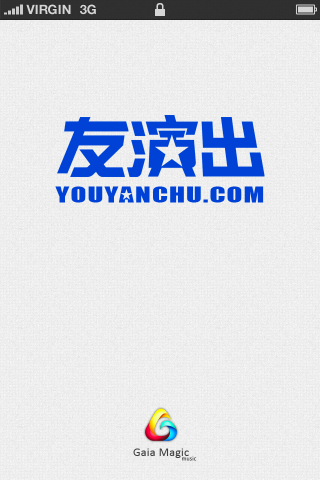
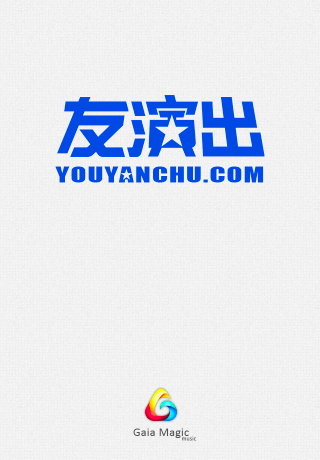
[mod]fix ui bugs in homepage

Changed region(s): [[0.1562, 0.1826, 0.8438, 0.4261], [0.0, 0.0, 1.0, 0.0609], [0.4062, 0.8217, 0.625, 0.9739]]

diff --git a/css/style.3.5.css b/css/style.3.5.css
@@ -28,12 +28,14 @@ h3 {margin-bottom: 5px;}
 .left { position: relative;left: 20px;}
 .middle {position: relative;left: 140px;margin-left: -16px;background-position: -8px -300px!important;}
 .right {position: relative;left: 260px;margin-left: -16px;background-position: -8px -318px!important;}
-.middle1 {position: relative;left: 70px;background-position: 0px -70px!important;}
-.middle1:hover {background-position: 0px -105px!important;}
-.middle2 {position: relative;left: 120px;background-position: 0px -140px!important;}
-.middle2:hover {background-position: 0px -175px!important;}
-.bottom-right {position: relative;left: 180px;margin-left: -16px;background-position: 0px -210px!important;}
-.bottom-right:hover {background-position: 0px -245px!important;}
+.left1 { position: relative;left: 20px;}
+.left1:hover { background-position: 0px -36px!important;}
+.middle1 {position: relative;left: 70px;background-position: 0px -72px!important;}
+.middle1:hover {background-position: 0px -108px!important;}
+.middle2 {position: relative;left: 120px;background-position: 0px -144px!important;}
+.middle2:hover {background-position: 0px -180px!important;}
+.bottom-right {position: relative;left: 180px;margin-left: -16px;background-position: 0px -216px!important;}
+.bottom-right:hover {background-position: 0px -252px!important;}
 .header-bar {width: 100%;height: 32px!important;color:white;line-height:32px;text-align:left!important;}
 .back-button {background: url(../images/tool/home-1.png) no-repeat;background-position: -8px -280px;padding-left: 20px;}
 .page-name {left:100px;}
@@ -41,7 +43,7 @@ h3 {margin-bottom: 5px;}
 
 /* login page style */
 .landing-page {
-  background-image: url(../images/landing-background.png);
+  background-image: url(../images/tool/setting-background.png);
 }
 header {
   margin: auto auto;
@@ -51,7 +53,8 @@ header {
   color: white;
 }
 #app-logo {
-  background: url(../images/LOGO.png) no-repeat;
+  background: url(../images/tool/retina/landing-page-logo-@2.png) no-repeat;
+  background-size: 160px 70px;
   line-height: 90px;
   padding: 26px;
   padding-left: 84px;
@@ -123,7 +126,8 @@ footer {
   color: white;
 }
 #company {
-  background: url(../images/company-logo.png) no-repeat;
+  background: url(../images/tool/retina/company-icon@2.png) no-repeat;
+  background-size: 73px 52px;
   line-height: 90px;
   padding: 26px;
   padding-left: 44px;
@@ -150,6 +154,9 @@ footer {
   background: url(../images/test-playbill-white.jpg) no-repeat;
   */
   background-color: black;
+}
+#playbill span {
+  font-size: 12px;
 }
 #playbill-button-list {
   width: 320px;
@@ -181,7 +188,7 @@ footer {
  * */
 
 .show-wrapper {
-  width: 320px;
+  width: 100%;
   top: 192px;
   bottom: 0;
   overflow: auto;
@@ -248,7 +255,8 @@ footer {
 #float-button a {
   padding-left: 35px;
   padding-top: 16px;
-  background: url(../images/tool/home-1.png);
+  background: url(../images/tool/retina/home-page-nav-bar.png);
+  background-size: 34px 349px; 
 }
 
 /* select menu style */
@@ -728,7 +736,8 @@ footer {
   float: right;
   margin-left: 5px;
   margin-right: 5px;
-  background: url(../images/tool/notice-icons.png) no-repeat;
+  background: url(../images/tool/retina/setting-page-icon@2.png) no-repeat;
+  background-size: 19px 175px;
   padding-left: 20px;
   padding-top: 13px;
 }

diff --git a/setting.html b/setting.html
@@ -28,7 +28,7 @@
     <!-- 个人展示 -->
     <div id='avatar' class='limit vertical-spacing'>
       <div id='icon-part'></div>
-      <p id='name'><span class='horizontal-spacing'>name</span><span class='horizontal-spacing sex-property'></span></p>
+      <p id='name'><span class='horizontal-spacing'>name</span><span class='horizontal-spacing' style='color:blue'>♂</span></p>
       <p id='city'><span class='horizontal-spacing px12'>城市：佛山</span><span class='horizontal-spacing' id='edit-avatar'>修改头像</span></p>
       <p id='text' class='horizontal-spacing px12'>盖亚魔力首席苦逼设计师，一年都黑都好鬼苦逼的啊哈，嘻嘻，呵呵</p>
     </div>

diff --git a/index.html b/index.html
@@ -9,6 +9,7 @@
     <meta name='author' content='CashLee-GaiaMagic' >
     <title>友演出-歌迷应用-开发</title>
     <link rel="apple-touch-icon" href="images/icons/icon-57.png"/>
+    <link rel="apple-touch-startup-image" href="images/tool/landing-page-2.png" />
     <link rel='stylesheet' type='text/css' href='css/style.3.5.css' />
     <link rel='stylesheet' type='text/css' href='css/jquery.mobile.structure-1.0.css' />
     <script type='text/javascript' language='javascript' src='js/libs/jquery-1.7.min.js'></script>

diff --git a/show.html b/show.html
@@ -134,7 +134,7 @@
 
         <!-- button list part -->
         <div id='float-button' class='absolute'>
-          <a class='left' id='plus-button-1'></a>
+          <a class='left left1' id='plus-button-1'></a>
           <a class='left' id='plus-button-2' style='display:none;'></a>
           <a class='middle1' id='collect-button' href='collect.html'></a>
           <a class='middle2' id='setting-button' href='setting.html'></a>
